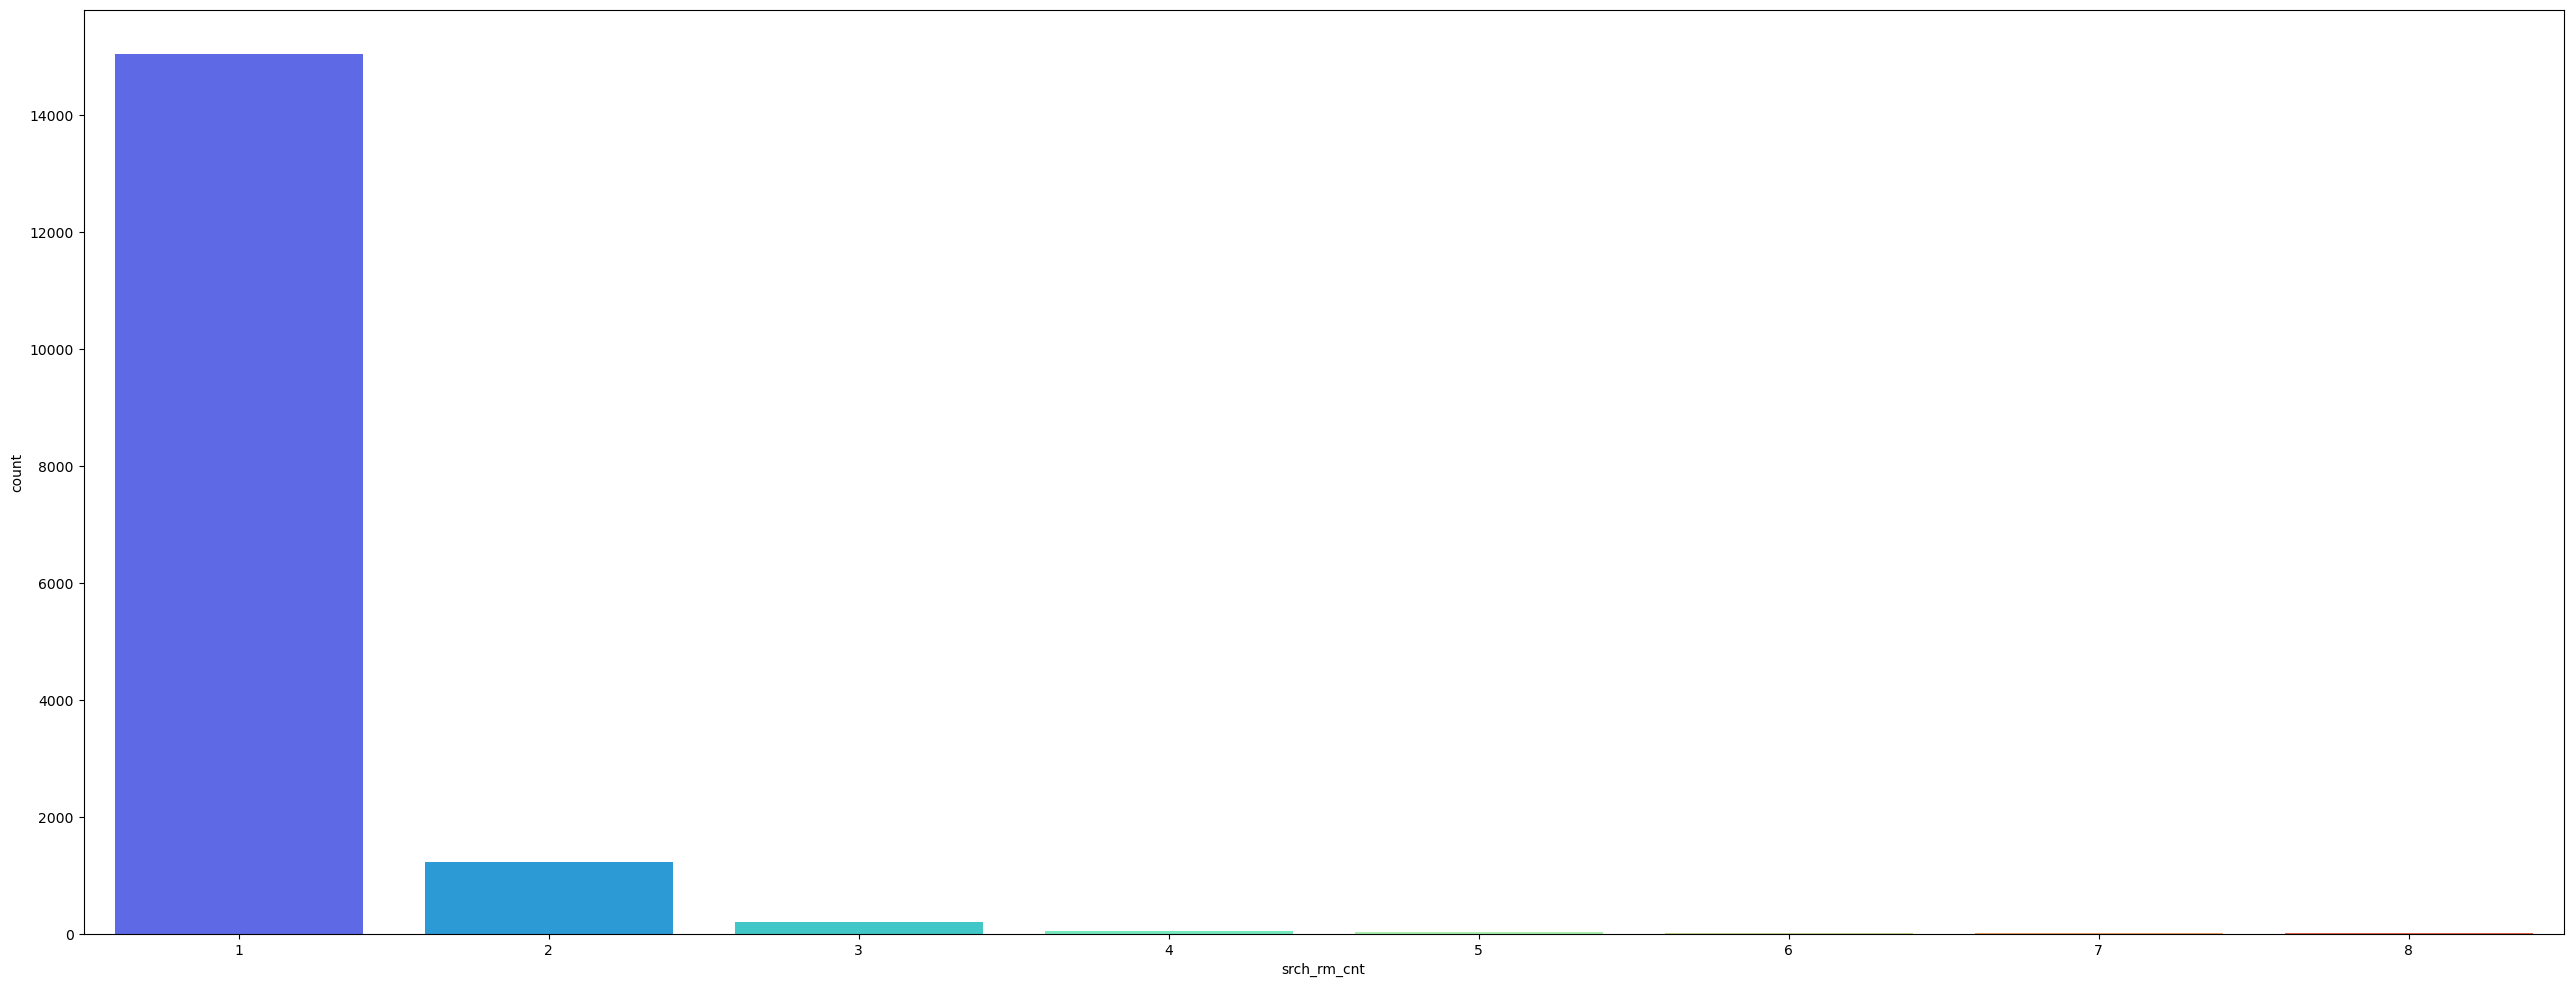
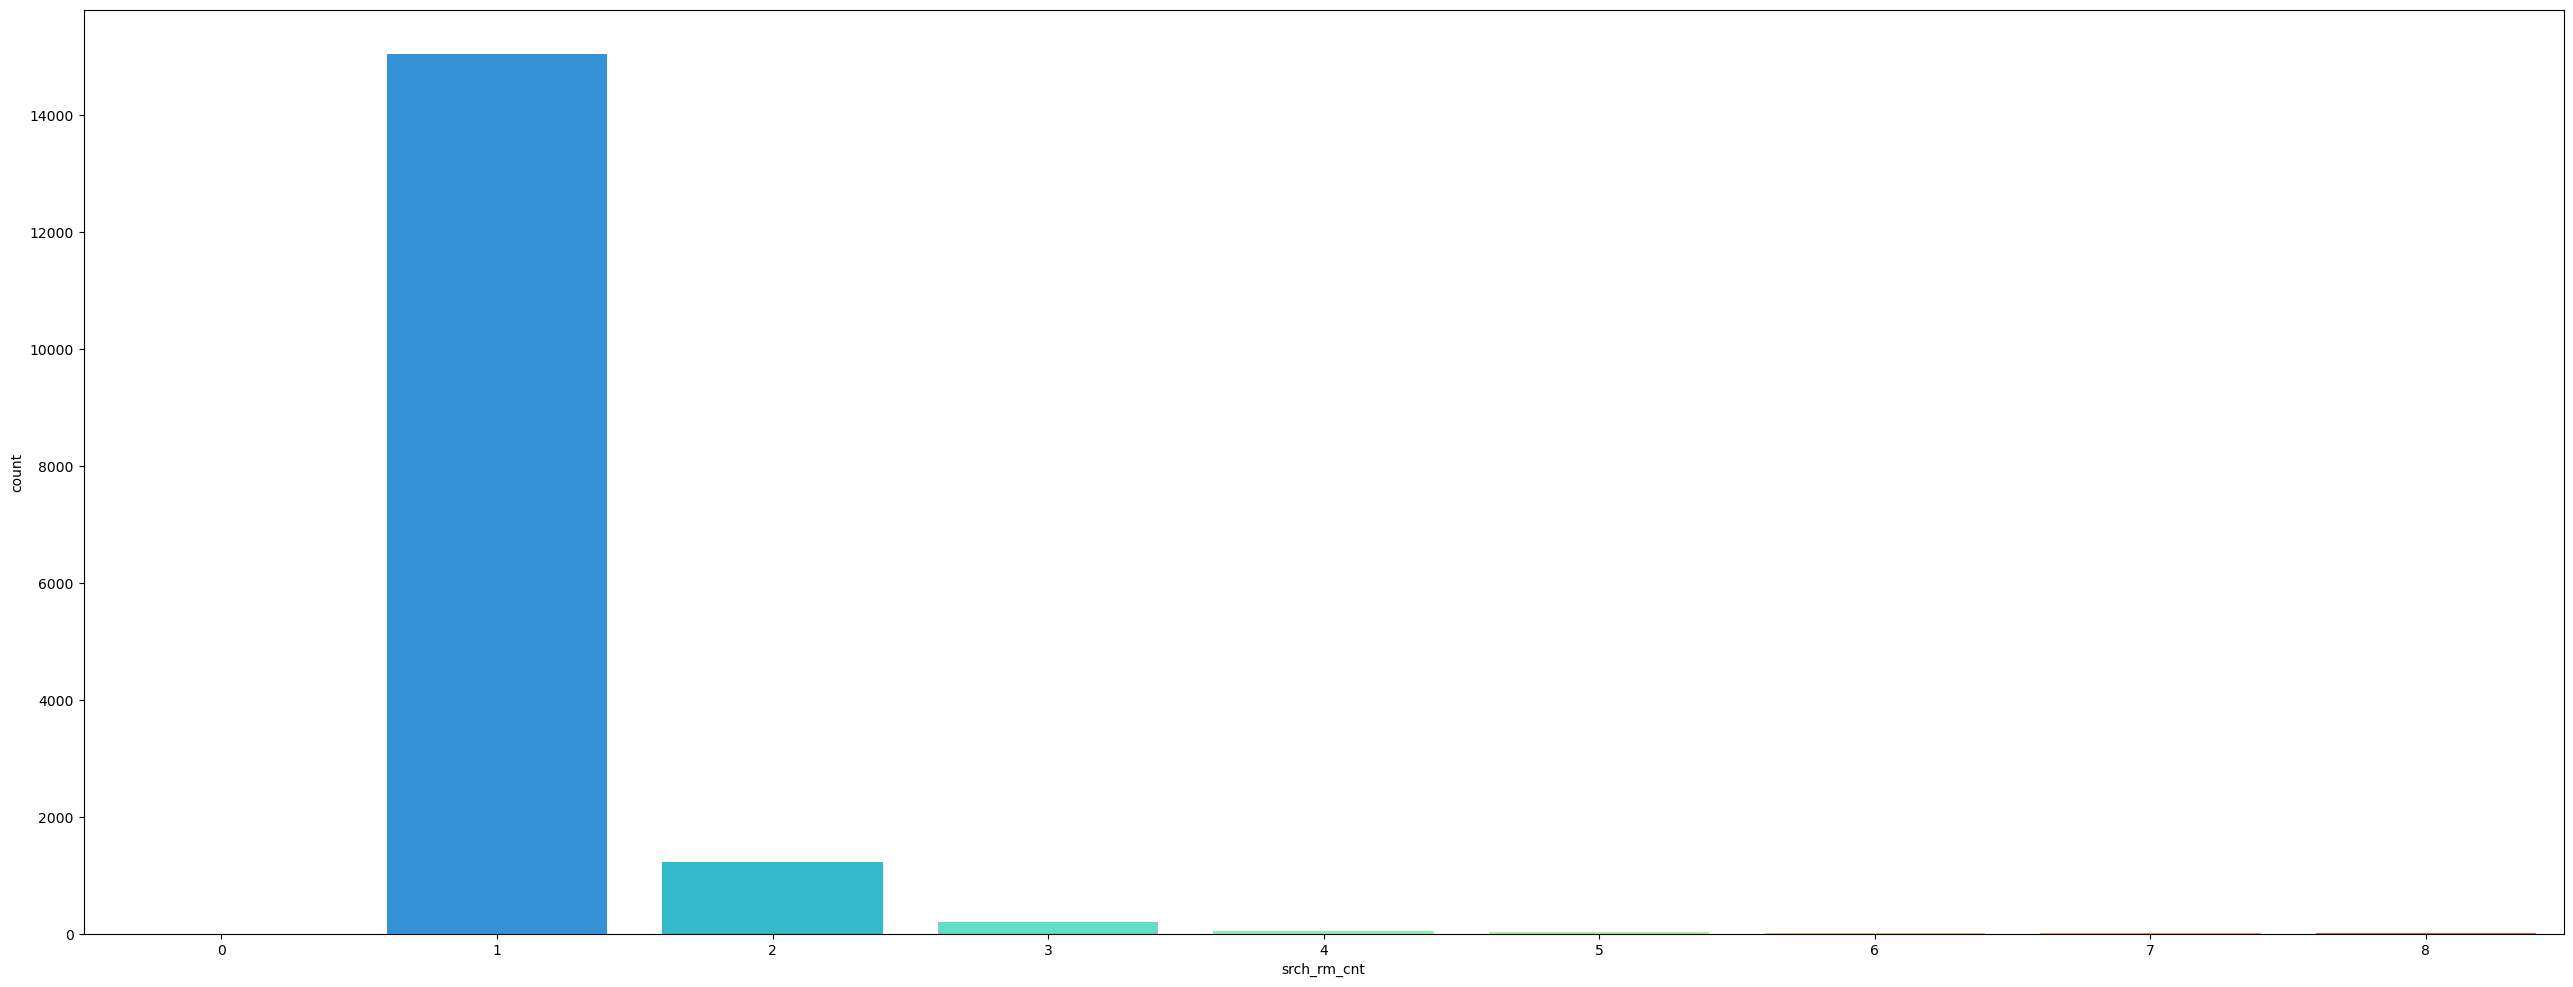
Binned variables further. Hopefully looks nice.

Changed region(s): [[0.0311, 0.0304, 0.4664, 0.9726], [0.4975, 0.9422, 0.5286, 0.9726]]

diff --git a/code/ii_c_exploratory_analysis.py b/code/ii_c_exploratory_analysis.py
@@ -16,22 +16,22 @@ def save_fig(fname, verbose=True):
 
 
 # correlation
-cmap = sns.diverging_palette(200, 200, 100, as_cmap=True)
-corr_table = train.corr()
-cols_corr = corr_table.columns.size
+# cmap = sns.diverging_palette(200, 200, 100, as_cmap=True)
+# corr_table = train.corr()
+# cols_corr = corr_table.columns.size
 
-plt.figure()
-sns.heatmap(corr_table.loc["hotel_cluster", :].sort_values().values.reshape(cols_corr, 1),
-            yticklabels=list(corr_table.loc["hotel_cluster", :].sort_values().index),
-            xticklabels=['hotel_cluster'], annot=True, linewidths=0.5, center=0, cmap=cmap, vmin=-0.1, vmax=0.1,
-            robust=True)
-save_fig('corr_2')
+# plt.figure()
+# sns.heatmap(corr_table.loc["hotel_cluster", :].sort_values().values.reshape(cols_corr, 1),
+#             yticklabels=list(corr_table.loc["hotel_cluster", :].sort_values().index),
+#             xticklabels=['hotel_cluster'], annot=True, linewidths=0.5, center=0, cmap=cmap, vmin=-0.1, vmax=0.1,
+#             robust=True)
+# save_fig('corr_2')
 
 # # count plots
-# for var in train.columns:
-#     plt.figure(figsize=(32, 12))
-#     sns.countplot(x=var, data=train, palette='rainbow', orient='h')
-#     save_fig("counts/"+var)
+for var in train.columns:
+    plt.figure(figsize=(32, 12))
+    sns.countplot(x=var, data=train, palette='rainbow', orient='h')
+    save_fig("counts/"+var)
 
 
 plt.figure(figsize=(52, 12))
@@ -62,6 +62,10 @@ print(train['no_days_to_cin'].describe())
 plt.figure(figsize=(32, 12))
 sns.boxplot(x="hotel_cluster", y="no_days_to_cin", data=train)
 save_fig("boxplot/no_days_to_cin")
+
+plt.figure(figsize=(15, 12))
+sns.boxplot(x="hotel_cluster", y="cnt", data=train)
+save_fig("boxplot/cnt")
 
 # stay_dur
 print(train['stay_dur'].describe())
@@ -135,16 +139,13 @@ sns.countplot(x ="hotel_cluster", hue = "srch_destination_type_id", data=train)
 save_fig("counts_srch_dest_typ_hotel_clust_3")
 
 
-plt.figure(figsize=(14, 12))
-sns.countplot(x='stay_dur_bin', data=train, palette='rainbow', orient='h')
-save_fig("counts/stay_dur_bin")
 
-plt.figure(figsize=(14, 12))
-sns.countplot(x='stay_dur_bin', data=train, palette='rainbow', orient='h')
-save_fig("counts/stay_dur_bin")
-
-sns.countplot(x='no_days_to_cin_bin', data=train, palette='rainbow', orient='h')
-save_fig("counts/no_days_to_cin_bin")
+# plt.figure(figsize=(14, 12))
+# sns.countplot(x='stay_dur_bin', data=train, palette='rainbow', orient='h')
+# save_fig("counts/stay_dur_bin")
+#
+# sns.countplot(x='no_days_to_cin_bin', data=train, palette='rainbow', orient='h')
+# save_fig("counts/no_days_to_cin_bin")
 
 def GKtau(x, y, x_name, y_name, dgts = 3):
   #  Compute the joint empirical distribution PIij
@@ -167,8 +168,6 @@ def GKtau(x, y, x_name, y_name, dgts = 3):
   vx_bary = 1 - np.sum(yx_term/PI_Plusj)
   #
   #  Compute forward and reverse associations
-  #
-
   tau_xy = (vy-vy_barx)/vy
   tau_yx = (vx-vx_bary)/vx
   #

diff --git a/code/ii_b_wrangle_data.py b/code/ii_b_wrangle_data.py
@@ -8,6 +8,28 @@ print(no_days_to_cin_bins)
 train['no_days_to_cin_bin'] = pd.cut(train['no_days_to_cin'], no_days_to_cin_bins)
 
 train['stay_dur_bin'] = pd.cut(train['stay_dur'], [-np.inf, 1, 2, 3, 4, 5, 6, 7,np.inf])
+train['cnt_bin'] = pd.cut(train['cnt'], [-np.inf, 1, 2, 3, np.inf])
 
+
+
+# transform variables with small counts
+
+
+cat_vars_less_than_10 = ['posa_continent', 'user_location_country', 'user_location_region',
+                'is_mobile',
+                'is_package', 'channel', 'srch_adults_cnt', 'srch_children_cnt', 'srch_rm_cnt',
+                'srch_destination_type_id',
+                'is_booking', 'hotel_continent', 'hotel_country', 'hotel_cluster', 'stay_dur_bin', 'no_days_to_cin_bin', 'site_name']
+# cat_vars_less_than_1 = ['srch_destination_id', 'site_name', 'hotel_market', 'user_id', 'user_location_city']
+
+for var in cat_vars_less_than_10:
+    series = pd.value_counts(train[var])
+    mask = (series / series.sum() * 100).lt(10)
+    train[var+"_combined_cats"] = np.where(train[var].isin(series[mask].index), 'Other', train[var])
+#
+# for var in cat_vars_less_than_1:
+#     series = pd.value_counts(train[var])
+#     mask = (series / series.sum() * 100).lt(0.1)
+#     train[var+"_combined_cats"] = np.where(train[var].isin(series[mask].index), 'Other', train[var])
 
 #TODO readme or makefile or something to instruct how to run files

diff --git a/code/ii_a_clean_data.py b/code/ii_a_clean_data.py
@@ -6,6 +6,15 @@ import numpy as np
 
 
 def clean_data(df):
+    #ensure all categorical variables are coded as factor
+    cat_vars = ['posa_continent', 'user_location_country', 'user_location_region', 'user_location_city', 'user_id',
+                'is_mobile',
+                'is_package', 'channel', 'srch_adults_cnt', 'srch_children_cnt', 'srch_rm_cnt', 'srch_destination_id',
+                'srch_destination_type_id',
+                'is_booking', 'hotel_continent', 'hotel_country', 'hotel_market', 'hotel_cluster']
+    for var in cat_vars:
+        df[var] = df[var].astype('category')
+
     # reason is approximately 36% of data is nas - too high
     df.drop('orig_destination_distance', axis=1, inplace=True)
 
@@ -53,3 +62,4 @@ def fill_nas_with_max(cols, df):
 
 data = clean_data(data)
 train, test = train_test_split(data, test_size=0.2, random_state=42, shuffle=True)
+print(train['is_mobile'].dtype)

diff --git a/code/i_download_data.py b/code/i_download_data.py
@@ -7,5 +7,4 @@ def get_df_top_five_clusters(df):
     return df[df['hotel_cluster'].isin(top_five_most_clusters)]
 
 data = get_df_top_five_clusters(data)
-print(data.shape)
 
